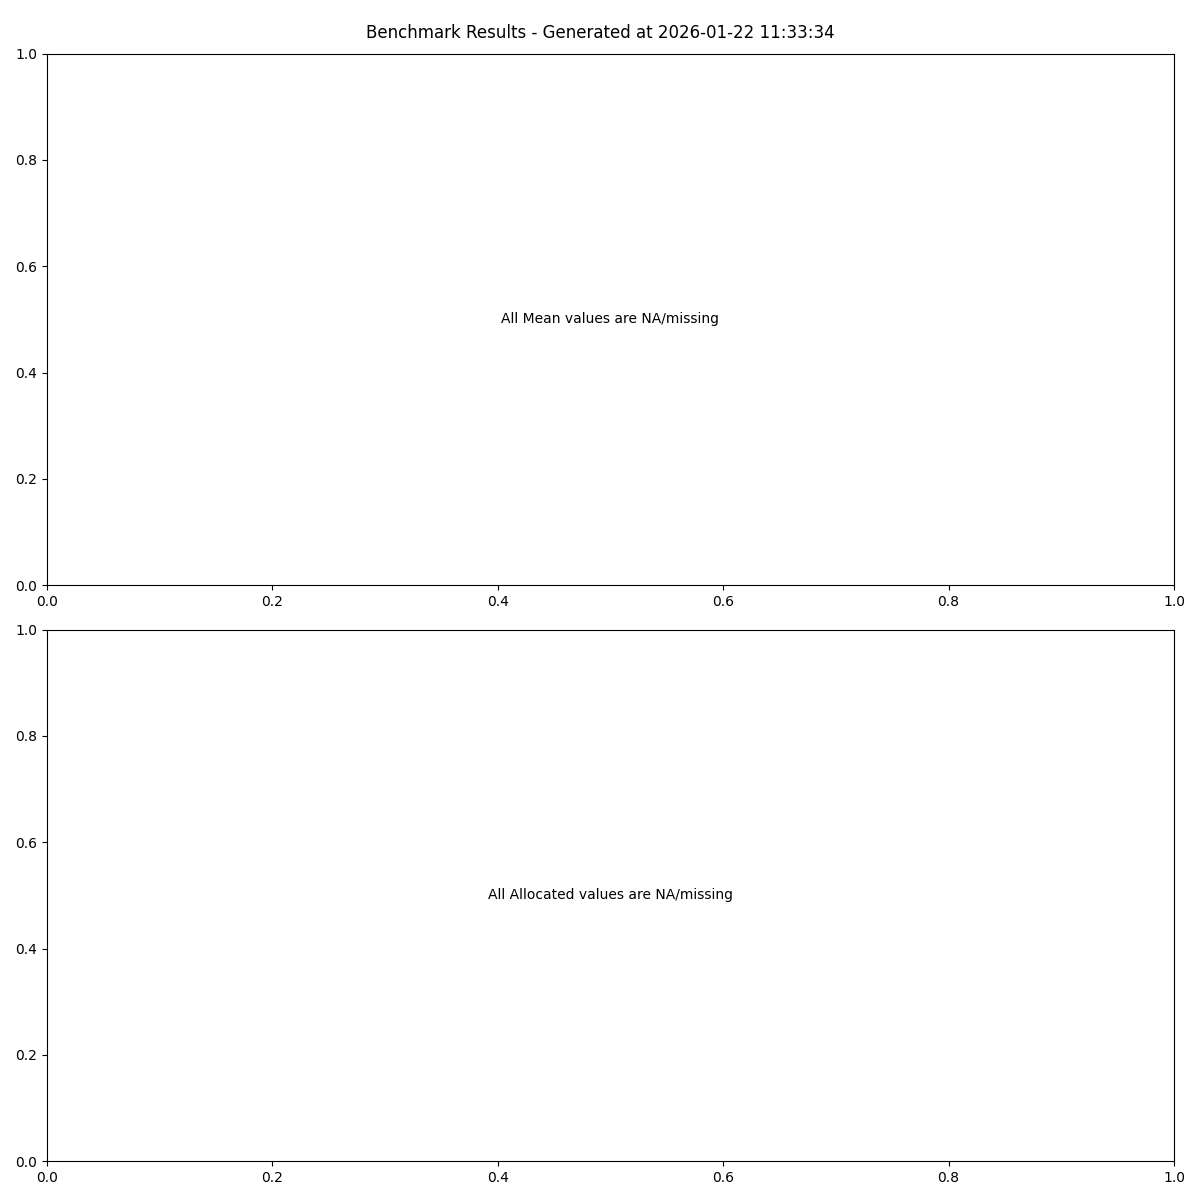
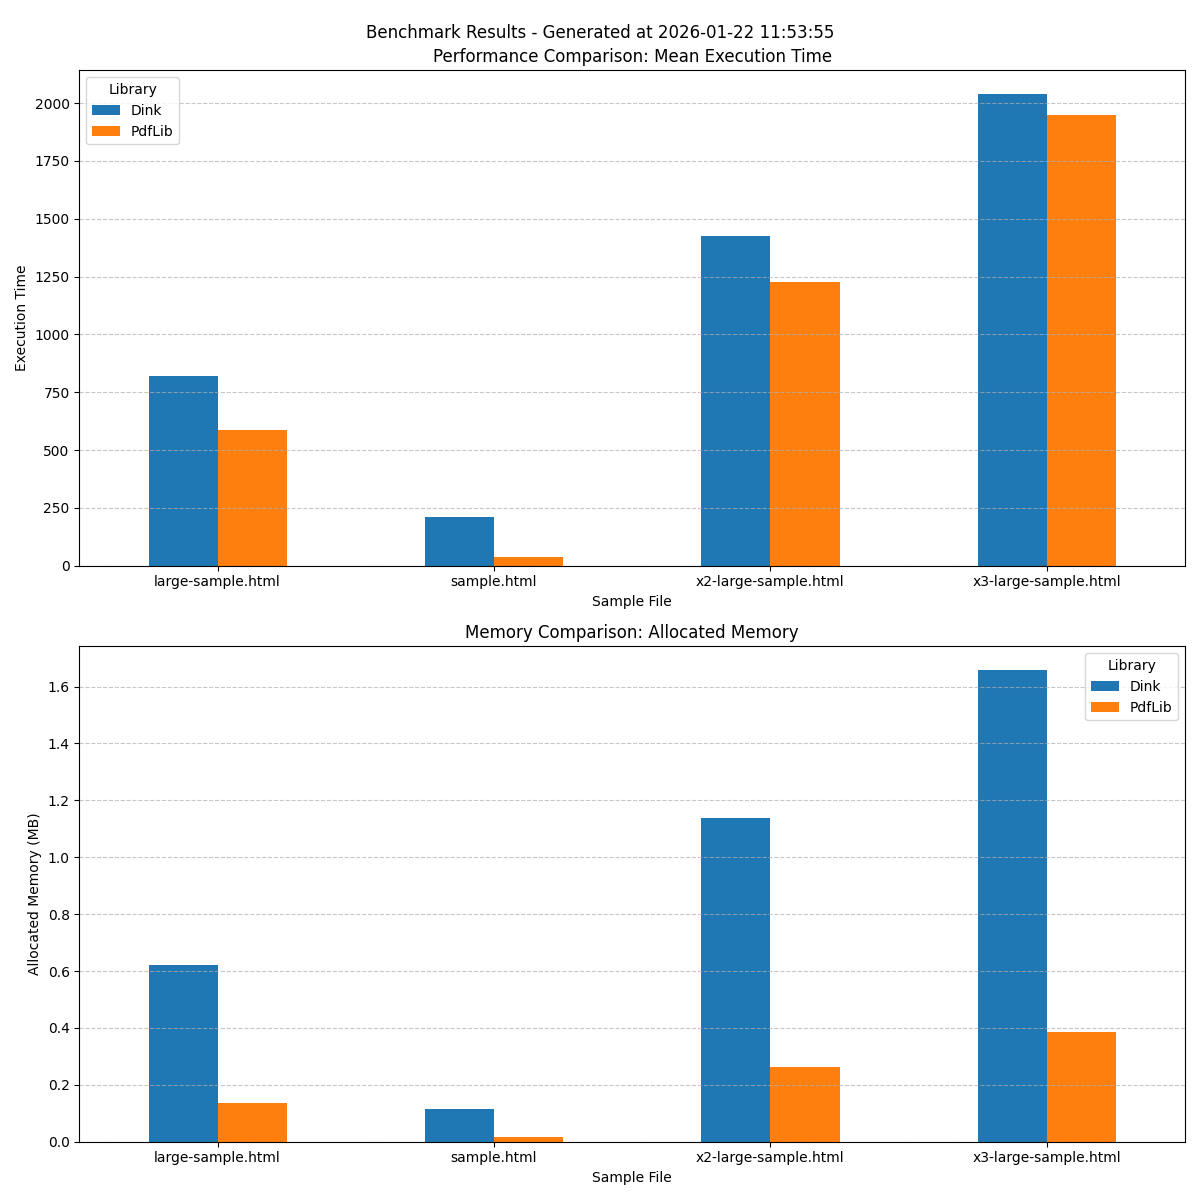
The chart works again

diff --git a/scripts/generate_chart.py b/scripts/generate_chart.py
@@ -43,7 +43,6 @@ def generate_chart():
     # Assuming columns: Method, Mean, Allocated, FileName
     # We want to compare Methods (Dink vs PdfLib) for each FileName
 
-    # Debug: Print columns and first few rows
     print(f"Columns: {df.columns.tolist()}")
     print("First 5 rows of data before processing:")
     cols_to_print = [c for c in ['Method', 'FileName', 'Mean', 'Allocated'] if c in df.columns]
@@ -51,36 +50,35 @@ def generate_chart():
     
     # Process Mean column
     if 'Mean' in df.columns:
-        if df['Mean'].dtype == object:
+        print(f"Mean column type: {df['Mean'].dtype}")
+        if df['Mean'].dtype == object or df['Mean'].dtype == 'string':
              def parse_mean(val):
-                 if pd.isna(val) or val == 'NA' or str(val).strip() == '-': return None
+                 if pd.isna(val) or val == 'NA' or str(val).strip() == '-' or str(val).strip() == '': return None
                  val_str = str(val).strip()
-                 parts = val_str.split(' ')
-                 if len(parts) < 2: 
-                     # Try to see if unit is attached to the number
-                     import re
-                     match = re.match(r"([0-9,.]+)\s*([a-zA-Zμ]+)", val_str)
-                     if match:
-                         num_str, unit = match.groups()
-                     else:
-                         return pd.to_numeric(val_str.replace(',', ''), errors='coerce')
+                 import re
+                 # Handle values with units
+                 match = re.search(r"([0-9,.]+)\s*([a-zA-Zμ]+)", val_str)
+                 if match:
+                     num_str, unit = match.groups()
+                     try:
+                         num = float(num_str.replace(',', ''))
+                     except ValueError:
+                         return None
+                     unit = unit.lower()
+                     if unit == 'ns': return num / 1000000.0
+                     if unit == 'us' or unit == 'μs': return num / 1000.0
+                     if unit == 'ms': return num
+                     if unit == 's': return num * 1000.0
+                     return num
                  else:
-                     num_str = parts[0]
-                     unit = parts[1]
-                 
-                 try:
-                     num = float(num_str.replace(',', ''))
-                 except ValueError:
-                     return None
-
-                 unit = unit.lower()
-                 if unit == 'ns': return num / 1000000.0
-                 if unit == 'us' or unit == 'μs': return num / 1000.0
-                 if unit == 'ms': return num
-                 if unit == 's': return num * 1000.0
-                 return num
+                     # Handle numeric strings without units
+                     try:
+                         return float(val_str.replace(',', ''))
+                     except ValueError:
+                         return None
              df['Mean'] = df['Mean'].apply(parse_mean)
         else:
+             # Already numeric (float or int)
              df['Mean'] = pd.to_numeric(df['Mean'], errors='coerce')
     else:
         print("Error: 'Mean' column not found in CSV!")
@@ -92,34 +90,30 @@ def generate_chart():
 
     # Process Allocated column
     if 'Allocated' in df.columns:
-        if df['Allocated'].dtype == object:
-             # Handle units if present (e.g., "1.5 KB", "100 B")
+        print(f"Allocated column type: {df['Allocated'].dtype}")
+        if df['Allocated'].dtype == object or df['Allocated'].dtype == 'string':
              def parse_alloc(val):
-                 if pd.isna(val) or val == 'NA' or str(val).strip() == '-': return None
+                 if pd.isna(val) or val == 'NA' or str(val).strip() == '-' or str(val).strip() == '': return None
                  val_str = str(val).strip()
-                 parts = val_str.split(' ')
-                 if len(parts) < 2: 
-                     import re
-                     match = re.match(r"([0-9,.]+)\s*([a-zA-Z]+)", val_str)
-                     if match:
-                         num_str, unit = match.groups()
-                     else:
-                         return pd.to_numeric(val_str.replace(',', ''), errors='coerce')
+                 import re
+                 match = re.search(r"([0-9,.]+)\s*([a-zA-Z]+)", val_str)
+                 if match:
+                     num_str, unit = match.groups()
+                     try:
+                         num = float(num_str.replace(',', ''))
+                     except ValueError:
+                         return None
+                     unit = unit.upper()
+                     if unit == 'B': return num
+                     if unit == 'KB': return num * 1024
+                     if unit == 'MB': return num * 1024 * 1024
+                     if unit == 'GB': return num * 1024 * 1024 * 1024
+                     return num
                  else:
-                     num_str = parts[0]
-                     unit = parts[1]
-                 
-                 try:
-                     num = float(num_str.replace(',', ''))
-                 except ValueError:
-                     return None
-
-                 unit = unit.upper()
-                 if unit == 'B': return num
-                 if unit == 'KB': return num * 1024
-                 if unit == 'MB': return num * 1024 * 1024
-                 if unit == 'GB': return num * 1024 * 1024 * 1024
-                 return num # Default to Bytes
+                     try:
+                         return float(val_str.replace(',', ''))
+                     except ValueError:
+                         return None
              df['Allocated'] = df['Allocated'].apply(parse_alloc)
         else:
              df['Allocated'] = pd.to_numeric(df['Allocated'], errors='coerce')
